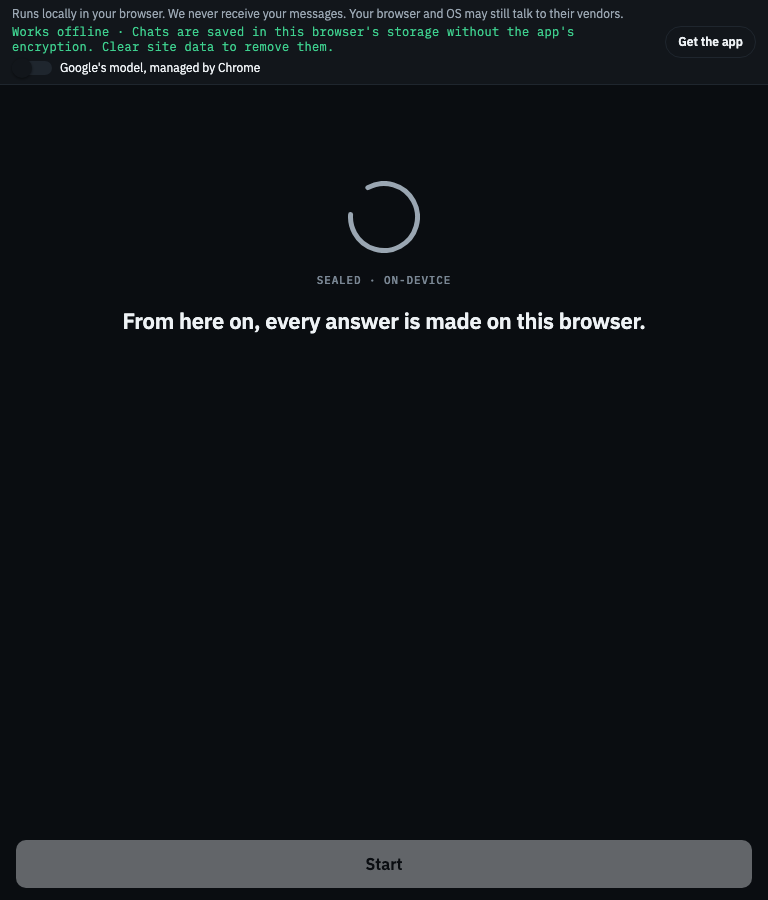
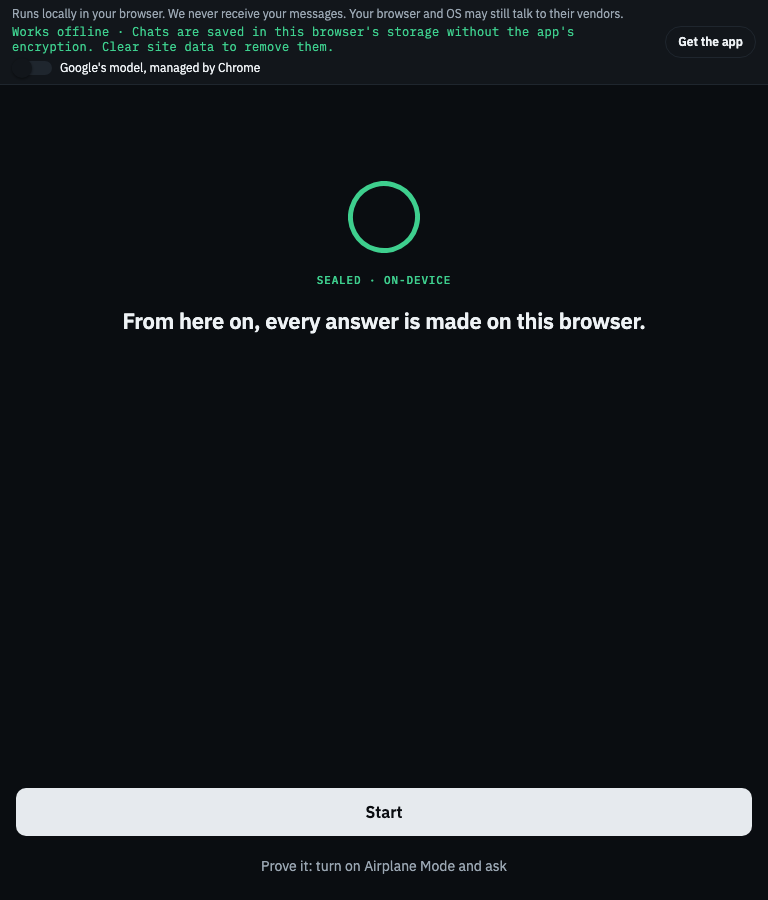
docs(onboarding): F124b, spec S03/S04, sealed screenshots

Changed region(s): [[0.0, 0.8711, 1.0, 0.9956], [0.4375, 0.2178, 0.5625, 0.28], [0.4688, 0.1867, 0.5312, 0.2178]]

diff --git a/docs/inborn-spec.html b/docs/inborn-spec.html
@@ -968,7 +968,7 @@ store:     sqlite-vec (mobile/desktop) · in‑memory/IndexedDB (web)</div>
 <div class="note"><p><strong>Pro for Work (69.99 דולר חד‑פעמי, דסקטופ תחילה; Pro משדרגים ב‑49.99):</strong> חבילות מקצוע (משפטי, טיפולי, רפואי, חשבונאי) עם תבניות והצהרות, vaults לפי לקוח/תיק עם קוד נפרד, כלי רדקציה/אנונימיזציה לפני הדבקה, קליטת DOCX/XLSX/HTML, הכתבה לרשומות, יומן ביקורת וייצוא מוחתם, מודלים גדולים (Power/Studio), מפתחות רישיון קבוצתיים שמאומתים אופליין, והצהרת ארכיטקטורה להדפסה לתיקי ציות. לעולם לא "HIPAA‑compliant" ולא "privileged" בשיווק.</p></div>
 
 </section>
-<section class="sec" data-tier="ref" data-words="4201">
+<section class="sec" data-tier="ref" data-words="4252">
 <h2 id="s8"><span class="n">08</span>מסכי האפליקציה, מסך אחר מסך<span class="tierpill">REFERENCE</span><span class="h2min">~21 min</span></h2>
 <p class="lead">לכל מסך: התפקיד שלו, האלמנטים, המצבים, מקרי הקצה שהוא חייב לטפל בהם, ומה בו חינם ומה Pro. הדמו האינטראקטיבי מציג את כל המסכים הממוספרים כאן (S01–S60); המסמך מגדיר גם את המצבים ומקרי הקצה שלהם. הניווט: במובייל כותרת עם החותם במרכז, כפתור מגירת השיחות בצד ההתחלה וצ'יפ המודל בצד הסיום; בדסקטופ ובטאבלט סרגל צד קבוע במקום המגירה.</p>
 
@@ -1010,7 +1010,7 @@ store:     sqlite-vec (mobile/desktop) · in‑memory/IndexedDB (web)</div>
 
 <div class="screen">
 <h4>S03 · Airplane test <span class="pill free">Free</span></h4>
-<p class="job">הטקס שהופך הבטחה להוכחה: המשתמש מכבה את הרשת בעצמו ורואה שהאפליקציה ממשיכה לענות. מ‑23.9.2026 המסך הזה אינו חלק משרשרת ה‑onboarding אלא נפתח מ‑S50 Proof, המסך שתפקידו להוכיח: בקשה לכבות רשת לפני שהמשתמש ראה תשובה אחת היא בקשה בלי סיבה.</p>
+<p class="job">הטקס שהופך הבטחה להוכחה: המשתמש מכבה את הרשת בעצמו ורואה שהאפליקציה ממשיכה לענות. מ‑23.9.2026 המסך הזה אינו חלק משרשרת ה‑onboarding אלא נפתח מ‑S50 Proof, המסך שתפקידו להוכיח: בקשה לכבות רשת לפני שהמשתמש ראה תשובה אחת היא בקשה בלי סיבה. בהשקה ראשונה הוא עדיין במרחק נגיעה: S04 Sealed מציע אותו בקישור משני שנושא את הסיבה בתווית עצמה — "Prove it: turn on Airplane Mode and ask" — מתחת ל‑"Start", ולא כשלב שחוסם.</p>
 <div class="wire">┌────────────────────────┐
 │  <u>Prove it to yourself.</u> │
 │  1. Turn on Airplane   │
@@ -1037,7 +1037,7 @@ store:     sqlite-vec (mobile/desktop) · in‑memory/IndexedDB (web)</div>
 <h4>S04 · Sealed <span class="pill free">Free</span></h4>
 <p class="job">רגע השיא של ה‑onboarding (חוק Peak‑End): החותם נסגר בקפיץ, הפטיק אחד, "SEALED · ON‑DEVICE".</p>
 <dl class="grid">
-<dt>elements</dt><dd>חותם 72px נסגר ב‑420ms, bloom ירוק 600ms, תווית מונו, משפט אחד: "From here on, every answer is made on this phone." כפתור "Start".</dd>
+<dt>elements</dt><dd>חותם 72px נסגר ב‑420ms, bloom ירוק 600ms, תווית מונו, משפט אחד: "From here on, every answer is made on this phone." כפתור "Start", ומתחתיו קישור משני "Prove it: turn on Airplane Mode and ask" שפותח את S03. שניהם מושבתים עד שהחותם נסגר.</dd>
 <dt>states</dt><dd>Reduced motion: מעבר חד לטבעת סגורה + הפטיק. בלי הפטיקה (הגדרה או מכשיר): רק ויזואל.</dd>
 </dl>
 </div>

diff --git a/docs/spec-src/08-screens.html b/docs/spec-src/08-screens.html
@@ -39,7 +39,7 @@
 
 <div class="screen">
 <h4>S03 · Airplane test <span class="pill free">Free</span></h4>
-<p class="job">הטקס שהופך הבטחה להוכחה: המשתמש מכבה את הרשת בעצמו ורואה שהאפליקציה ממשיכה לענות. מ‑23.9.2026 המסך הזה אינו חלק משרשרת ה‑onboarding אלא נפתח מ‑S50 Proof, המסך שתפקידו להוכיח: בקשה לכבות רשת לפני שהמשתמש ראה תשובה אחת היא בקשה בלי סיבה.</p>
+<p class="job">הטקס שהופך הבטחה להוכחה: המשתמש מכבה את הרשת בעצמו ורואה שהאפליקציה ממשיכה לענות. מ‑23.9.2026 המסך הזה אינו חלק משרשרת ה‑onboarding אלא נפתח מ‑S50 Proof, המסך שתפקידו להוכיח: בקשה לכבות רשת לפני שהמשתמש ראה תשובה אחת היא בקשה בלי סיבה. בהשקה ראשונה הוא עדיין במרחק נגיעה: S04 Sealed מציע אותו בקישור משני שנושא את הסיבה בתווית עצמה — "Prove it: turn on Airplane Mode and ask" — מתחת ל‑"Start", ולא כשלב שחוסם.</p>
 <div class="wire">┌────────────────────────┐
 │  <u>Prove it to yourself.</u> │
 │  1. Turn on Airplane   │
@@ -66,7 +66,7 @@
 <h4>S04 · Sealed <span class="pill free">Free</span></h4>
 <p class="job">רגע השיא של ה‑onboarding (חוק Peak‑End): החותם נסגר בקפיץ, הפטיק אחד, "SEALED · ON‑DEVICE".</p>
 <dl class="grid">
-<dt>elements</dt><dd>חותם 72px נסגר ב‑420ms, bloom ירוק 600ms, תווית מונו, משפט אחד: "From here on, every answer is made on this phone." כפתור "Start".</dd>
+<dt>elements</dt><dd>חותם 72px נסגר ב‑420ms, bloom ירוק 600ms, תווית מונו, משפט אחד: "From here on, every answer is made on this phone." כפתור "Start", ומתחתיו קישור משני "Prove it: turn on Airplane Mode and ask" שפותח את S03. שניהם מושבתים עד שהחותם נסגר.</dd>
 <dt>states</dt><dd>Reduced motion: מעבר חד לטבעת סגורה + הפטיק. בלי הפטיקה (הגדרה או מכשיר): רק ויזואל.</dd>
 </dl>
 </div>

diff --git a/docs/qa/qa-run-2026-09-11.md b/docs/qa/qa-run-2026-09-11.md
@@ -997,3 +997,4 @@ two-option layout the browser cannot reach on its own, `shots.mjs` the driver, `
 | F122 | Medium | S03 airplane test, onboarding chain | **The onboarding asked the user to turn off their network, in step 3 of 5, without saying why.** The screen opened on "Prove it to yourself." followed straight by "1. Turn on Airplane Mode.", with no reason and no visual break from the model step before it. Moshe: "here I don't even know why you want me in airplane mode"; `before/airplane-test-390-dark.png`. | **Fixed.** The airplane test left the onboarding chain (welcome to model to sealed to lock) and lives on S50 Proof, the screen whose job is proving, under an AIRPLANE TEST section whose first line is the reason: "Turn on Airplane Mode and ask anything. The answer still comes, because it was only ever coming from this {device}." The same line now opens the test screen itself, above the steps, and each numbered step sits in its own card. `after/proof-*.png`, `after/airplane-test-*.png`. Matches Apple's onboarding guidance (ask where the function is used, not up front) and the 28 % higher grant rate reported for deferred permission asks. |
 | F123 | Medium | S02 offer timing | **The choice arrived after the download.** Moshe: "you offer optional Fast after I already downloaded one pack; why not let me choose before?" The old step presented Instant as a finished fact and Fast as an afterthought below it, so the only real decision the user had was made for them. | **Fixed.** Both models are presented as siblings before anything moves, each with its size, where it comes from, what it is good at and which languages it is strong in, and the bigger one carries a `Better in {language}` badge when the catalogue rates it above the small one in the reader's own language. The screen opens on the model that already works, so the recommendation never spends a gigabyte by itself. |
 | F124 | Low | S02 source line on the web | **"Instant · built in" was false in the browser**, where the model is downloaded into OPFS by the download door before onboarding ever runs, and the size line printed a locale-typed "0.5 GB". | **Fixed.** Every source line is read off the delivery, never guessed: `inside the app` (bundled), `delivered by Google Play`, `Google Play is delivering it now`, `one download from {host}`, `already on this {device}`. The size comes from the catalogue in all of them, and the QA F24 guard in `packages/i18n/test/locales.test.ts` now walks all six sized keys in all nine locale files instead of the one key it used to watch (watched red first: a hand-typed `1,2 GB` in `de.json` fails it). |
+| F124b | Low | S04 Sealed (`apps/mobile/src/screens/Onboarding/Sealed.tsx`) | **Taking the airplane test out of the onboarding chain (F122) left a first-run user who never opens Proof with no way to meet the ritual at all.** Raised as a judgement call with the change, not found in use. | **Fixed** (lead's decision, same round). The seal screen offers it as a secondary link under Start, with the reason inside the label rather than above it: `Prove it: turn on Airplane Mode and ask` (`onboarding.sealed.prove`, all eight locales plus `pseudo`). It routes to `/proof/airplane`, the same screen the Proof page opens, and is disabled until the seal has closed, so it never competes with Start. Proven live in the browser, not only on the source: `after/onboarding-sealed-390-dark.png` and `after/onboarding-sealed-1440-light.png` for the screen, `after/onboarding-sealed-sealed-prove-*.png` for where the tap lands. `apps/mobile/src/screens/Onboarding/sealed.test.ts` asserts the wiring and the label in every locale, watched red twice: pointing the link at `/proof` and demoting it from `variant="link"` each fail it. |

diff --git a/README.md b/README.md
@@ -3364,6 +3364,12 @@ decisions already taken, not a choice, and S03 asked for something before it had
   cannot download and walks welcome, model, sealed, lock, chat. Screenshots at 390 / 768 / 1440 in both schemes,
   before and after, in `docs/qa/onboarding-rework/`, taken by `docs/qa/onboarding-rework/shots.mjs`. Everything
   under `after/` and `web-smoke.txt` was re-taken after merging `origin/main` at c45509c (round 42).
+- **F124b, added after the lead's call on the open question.** Dropping the airplane test from the chain left a
+  first-run user who never opens Proof without the ritual. The seal screen now offers it as a secondary link under
+  Start, carrying its reason in the label itself so it stays an offer and not an unexplained ask: *Prove it: turn on
+  Airplane Mode and ask*. It opens the same `/proof/airplane` route and sleeps until the seal has closed.
+  `apps/mobile/src/screens/Onboarding/sealed.test.ts` pins the wiring and the label in all nine locale files, and the
+  tap was followed in the browser: `docs/qa/onboarding-rework/after/onboarding-sealed-sealed-prove-*.png`.
 - **Not done.** The two-option layout is proven by unit tests and by a throwaway harness build
   (`docs/qa/onboarding-rework/layout-two-options/`, built with `HttpsDelivery.plan` allowed on the web and the
   platform forced to iOS, then reverted); a real iPhone or a 6T was not in this stream's scope, so nobody has yet
